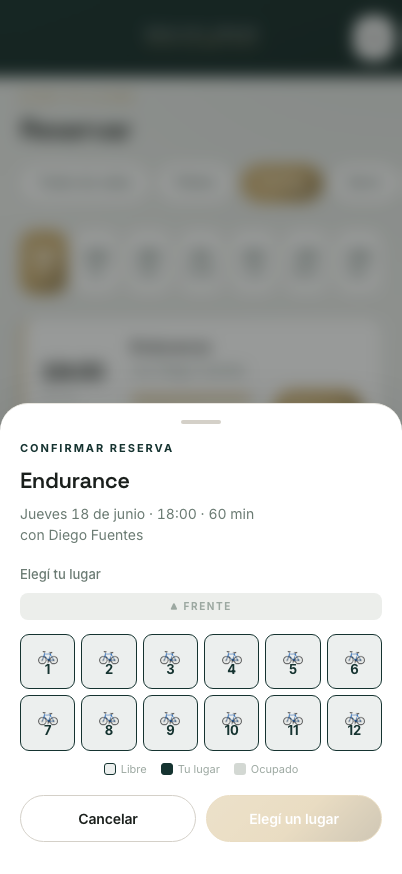
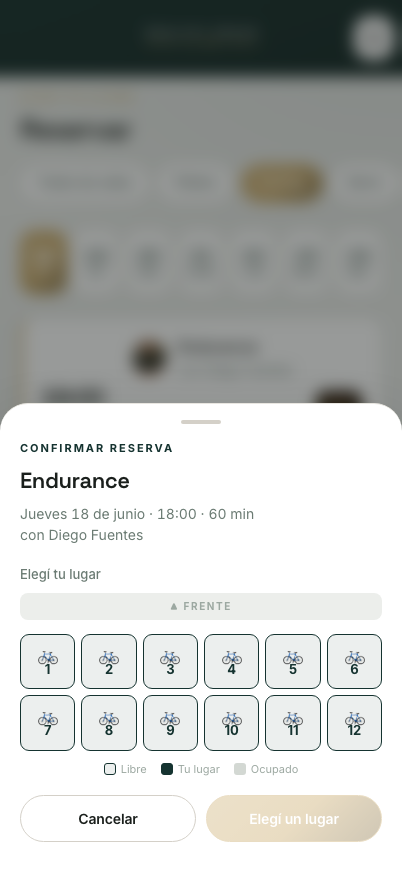
feat(socio): fotos de coach + sala en las tarjetas de Reservar
- Avatar del coach a la izquierda de la info (foto real o iniciales de fallback).
- Miniatura de la sala arriba del botón Reservar (foto real o tile de marca con
  la inicial de la disciplina).
- Sale de instructor.foto_url / recurso.foto_url (editable desde admin, nada
  hardcodeado). Capturas socio/mapa regeneradas con el diseño nuevo.

Changed region(s): [[0.0896, 0.4016, 0.2687, 0.4634], [0.3284, 0.3707, 0.4776, 0.4634], [0.6866, 0.4325, 0.9254, 0.4634]]

diff --git a/src/member/components/ClaseRow.tsx b/src/member/components/ClaseRow.tsx
@@ -120,57 +120,64 @@ export function ClaseRow({
           minWidth: 0
         }}
       >
-        {/* Encabezado: disciplina (eyebrow) + nombre + instructor */}
-        <div style={{ minWidth: 0 }}>
-          {clase.disciplina && clase.disciplina !== clase.nombre && (
+        {/* Encabezado: coach (avatar a la izquierda) + disciplina/nombre/instructor */}
+        <div style={{ display: 'flex', alignItems: 'center', gap: '11px', minWidth: 0 }}>
+          <CoachAvatar
+            url={clase.instructorFotoUrl}
+            nombre={clase.instructorNombre}
+            dim={esCancelada}
+          />
+          <div style={{ minWidth: 0 }}>
+            {clase.disciplina && clase.disciplina !== clase.nombre && (
+              <p
+                style={{
+                  fontSize: '10px',
+                  fontWeight: 700,
+                  letterSpacing: '0.12em',
+                  textTransform: 'uppercase',
+                  color: 'var(--sala-primary)',
+                  margin: 0,
+                  marginBottom: '4px'
+                }}
+              >
+                {clase.disciplina}
+              </p>
+            )}
             <p
               style={{
-                fontSize: '10px',
-                fontWeight: 700,
-                letterSpacing: '0.12em',
-                textTransform: 'uppercase',
-                color: 'var(--sala-primary)',
+                fontFamily: 'var(--ek-font-display)',
+                fontSize: '16px',
+                fontWeight: 600,
+                letterSpacing: '-0.02em',
+                color: 'var(--sala-text-primary)',
                 margin: 0,
-                marginBottom: '4px'
+                overflow: 'hidden',
+                textOverflow: 'ellipsis',
+                whiteSpace: 'nowrap',
+                textDecoration: esCancelada ? 'line-through' : 'none',
+                opacity: esCancelada ? 0.6 : 1
               }}
             >
-              {clase.disciplina}
+              {clase.nombre}
             </p>
-          )}
-          <p
-            style={{
-              fontFamily: 'var(--ek-font-display)',
-              fontSize: '16px',
-              fontWeight: 600,
-              letterSpacing: '-0.02em',
-              color: 'var(--sala-text-primary)',
-              margin: 0,
-              overflow: 'hidden',
-              textOverflow: 'ellipsis',
-              whiteSpace: 'nowrap',
-              textDecoration: esCancelada ? 'line-through' : 'none',
-              opacity: esCancelada ? 0.6 : 1
-            }}
-          >
-            {clase.nombre}
-          </p>
-          <p
-            style={{
-              fontSize: '13px',
-              color: 'var(--sala-text-secondary)',
-              margin: 0,
-              marginTop: '2px'
-            }}
-          >
-            {clase.instructorNombre ? `con ${clase.instructorNombre}` : 'Instructor por confirmar'}
-          </p>
+            <p
+              style={{
+                fontSize: '13px',
+                color: 'var(--sala-text-secondary)',
+                margin: 0,
+                marginTop: '2px'
+              }}
+            >
+              {clase.instructorNombre ? `con ${clase.instructorNombre}` : 'Instructor por confirmar'}
+            </p>
+          </div>
         </div>
 
-        {/* Cupos + acción */}
+        {/* Cupos + acción. A la derecha: miniatura de la sala ARRIBA del botón. */}
         <div
           style={{
             display: 'flex',
-            alignItems: 'center',
+            alignItems: 'flex-end',
             justifyContent: 'space-between',
             gap: '12px',
             flexWrap: 'wrap'
@@ -179,16 +186,32 @@ export function ClaseRow({
           <div style={{ flex: '1 1 120px', minWidth: '100px' }}>
             <CupoBar clase={clase} size="md" />
           </div>
-          <ActionButton
-            cancelada={esCancelada}
-            yaReservada={yaReservada}
-            puedeReservar={puedeReservar}
-            llena={llena}
-            pocos={pocos}
-            reservando={!!reservando}
-            onReservar={onReservar}
-            onCancelar={onCancelar}
-          />
+          <div
+            style={{
+              display: 'flex',
+              flexDirection: 'column',
+              alignItems: 'flex-end',
+              gap: '8px',
+              flexShrink: 0
+            }}
+          >
+            <SalaThumb
+              url={clase.imagenUrl}
+              nombre={clase.salaNombre}
+              disciplina={clase.disciplina}
+              dim={esCancelada}
+            />
+            <ActionButton
+              cancelada={esCancelada}
+              yaReservada={yaReservada}
+              puedeReservar={puedeReservar}
+              llena={llena}
+              pocos={pocos}
+              reservando={!!reservando}
+              onReservar={onReservar}
+              onCancelar={onCancelar}
+            />
+          </div>
         </div>
       </div>
     </div>
@@ -330,5 +353,98 @@ function ActionButton({
     >
       {reservando ? 'Reservando…' : 'Reservar'}
     </button>
+  );
+}
+
+/** Iniciales (máx 2) de un nombre, para el avatar sin foto. */
+function iniciales(nombre?: string): string {
+  const partes = (nombre ?? '').trim().split(/\s+/).filter(Boolean);
+  if (partes.length === 0) return '?';
+  return partes
+    .slice(0, 2)
+    .map((p) => p[0]?.toUpperCase() ?? '')
+    .join('');
+}
+
+/** Avatar circular del coach. Foto si hay; si no, iniciales sobre tinte de marca. */
+function CoachAvatar({ url, nombre, dim }: { url?: string; nombre?: string; dim?: boolean }) {
+  const size = 36;
+  return (
+    <div
+      aria-hidden="true"
+      style={{
+        width: size,
+        height: size,
+        borderRadius: '999px',
+        flexShrink: 0,
+        overflow: 'hidden',
+        background: 'var(--sala-primary-light)',
+        border: '1px solid var(--sala-border)',
+        display: 'flex',
+        alignItems: 'center',
+        justifyContent: 'center',
+        opacity: dim ? 0.55 : 1
+      }}
+    >
+      {url ? (
+        <img
+          src={url}
+          alt={nombre ?? ''}
+          loading="lazy"
+          style={{ width: '100%', height: '100%', objectFit: 'cover', display: 'block' }}
+        />
+      ) : (
+        <span style={{ fontSize: '13px', fontWeight: 700, color: 'var(--sala-primary)', letterSpacing: '0.01em' }}>
+          {iniciales(nombre)}
+        </span>
+      )}
+    </div>
+  );
+}
+
+/** Miniatura de la sala. Foto si hay; si no, tile de marca con la inicial. */
+function SalaThumb({
+  url,
+  nombre,
+  disciplina,
+  dim
+}: {
+  url?: string;
+  nombre?: string;
+  disciplina?: string;
+  dim?: boolean;
+}) {
+  const label = (disciplina || nombre || '').trim();
+  const inicial = label ? label[0].toUpperCase() : '';
+  return (
+    <div
+      aria-hidden="true"
+      title={nombre}
+      style={{
+        width: '48px',
+        height: '44px',
+        borderRadius: '11px',
+        flexShrink: 0,
+        overflow: 'hidden',
+        border: '1px solid var(--sala-border)',
+        background:
+          'linear-gradient(135deg, var(--sala-primary-light), color-mix(in srgb, var(--sala-accent) 16%, var(--sala-surface)))',
+        display: 'flex',
+        alignItems: 'center',
+        justifyContent: 'center',
+        opacity: dim ? 0.55 : 1
+      }}
+    >
+      {url ? (
+        <img
+          src={url}
+          alt={nombre ?? ''}
+          loading="lazy"
+          style={{ width: '100%', height: '100%', objectFit: 'cover', display: 'block' }}
+        />
+      ) : (
+        <span style={{ fontSize: '17px', fontWeight: 700, color: 'var(--sala-primary)' }}>{inicial}</span>
+      )}
+    </div>
   );
 }
